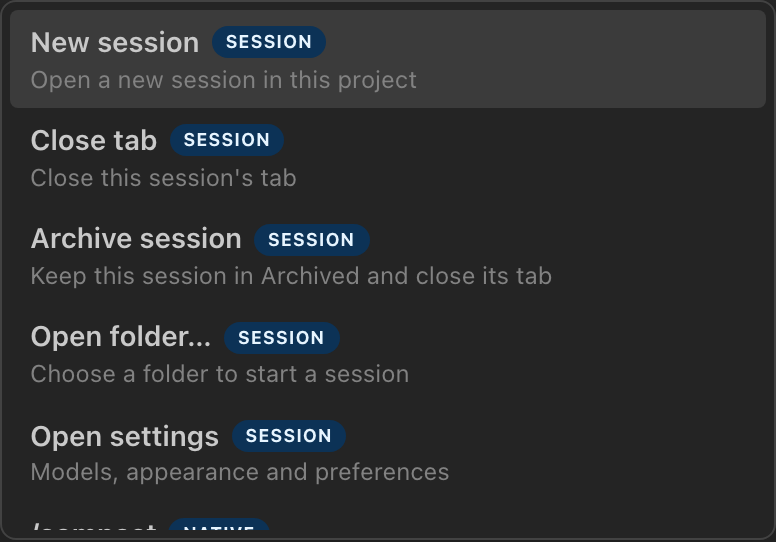
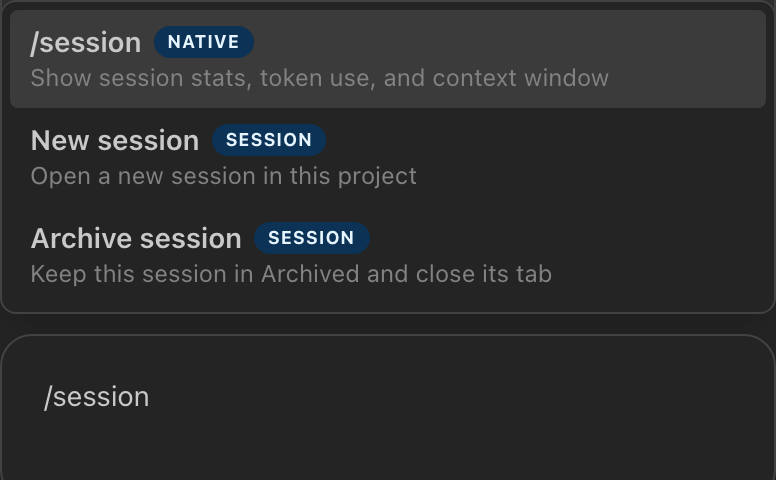
fix: show complete commands panel in README capture

diff --git a/scripts/capture-readme.ts b/scripts/capture-readme.ts
@@ -114,11 +114,25 @@ async function sendWithRetry(request: Request) {
 
   await page.setViewportSize({ width: 420, height: 780 });
   const composer = page.getByRole("textbox", { name: "Message Pi" });
-  await composer.fill("/");
+  // A real filtered menu fits without a half-visible row at the scroll boundary.
+  await composer.fill("/session");
   const commands = page.getByRole("listbox", { name: "Commands", exact: true });
   await expect(commands.getByRole("option", { name: /New session/ })).toBeVisible();
+  const options = commands.getByRole("option");
+  const panelBox = await commands.boundingBox();
+  const lastOptionBox = await options.last().boundingBox();
+  if (!panelBox || !lastOptionBox || lastOptionBox.y + lastOptionBox.height > panelBox.y + panelBox.height) {
+    throw new Error("Commands Panel must show every filtered option without clipping");
+  }
+  const composerBox = await composer.boundingBox();
+  if (!composerBox) throw new Error("Composer is not visible");
   await settle();
-  await commands.screenshot({ path: join(output, "commands.png"), animations: "disabled", caret: "hide" });
+  // Include the query/composer for context, but no unrelated transcript or empty screen.
+  await page.screenshot({
+    path: join(output, "commands.png"), animations: "disabled", caret: "hide",
+    clip: { x: panelBox.x, y: panelBox.y, width: panelBox.width,
+      height: composerBox.y + composerBox.height - panelBox.y },
+  });
   await composer.press("Escape");
   await composer.fill("");
   await page.setViewportSize({ width: 1120, height: 780 });
@@ -140,6 +154,7 @@ async function sendWithRetry(request: Request) {
     await document.fonts.ready;
     await Promise.all([...document.images].map(image => image.decode()));
   });
+  await expect(assembly.locator(".commands img")).toHaveCSS("object-fit", "contain");
   await assembly.locator(".showcase").screenshot({ path: join(output, "pi-chat-showcase.png"), animations: "disabled" });
   await writeFile(join(output, "preview.html"), html);
   await writeFile(join(output, "manifest.json"), JSON.stringify({

diff --git a/scripts/readme-showcase/assembly.ts b/scripts/readme-showcase/assembly.ts
@@ -20,7 +20,7 @@ h1{margin:0 0 20px;font-size:24px;font-weight:700;letter-spacing:-.5px}figure{ma
 .hero img{display:block;width:100%;height:auto}.summary{margin:10px 2px 0;font-size:12px;color:#747b88}
 .grid{display:grid;grid-template-columns:repeat(3,minmax(0,1fr));gap:18px;margin-top:26px}
 .grid .frame{height:320px}.grid img{display:block;width:100%;height:100%;object-fit:cover;object-position:top left}
-.grid .commands img{object-fit:cover;object-position:top left}.grid .light{border-color:#e1e3e9;background:#fafafa}.grid .light img{object-fit:cover;object-position:top center}
+.grid .commands img{object-fit:contain;object-position:center}.grid .light{border-color:#e1e3e9;background:#fafafa}.grid .light img{object-fit:cover;object-position:top center}
 figcaption{padding:11px 1px 0;font-size:13px;font-weight:600}
 </style></head><body><main class="showcase"><h1>Workspace</h1>
 <figure class="hero"><div class="frame">${image("workspace", "Pi Chat conversation with rich Markdown and tool output")}</div></figure>

diff --git a/test/infra-tests/readme-showcase.test.ts b/test/infra-tests/readme-showcase.test.ts
@@ -11,6 +11,11 @@ describe("README showcase assembly", () => {
     expect(html).not.toContain("A real conversation");
   });
 
+  it("fits the complete Commands Panel capture without cropping its edges", () => {
+    const html = assembleShowcaseHtml({ workspace: "AAA", projects: "BBB", commands: "CCC", light: "DDD" });
+    expect(html).toContain(".grid .commands img{object-fit:contain;object-position:center}");
+  });
+
   it("rejects malformed image data rather than interpolating markup", () => {
     expect(() => assembleShowcaseHtml({ workspace: '<script>', projects: "BBB", commands: "CCC", light: "DDD" })).toThrow(/base64/);
   });

diff --git a/docs/readme-showcase/CAPTURE.md b/docs/readme-showcase/CAPTURE.md
@@ -30,7 +30,7 @@ The default output directory is `docs/images/showcase/`:
 | --- | --- |
 | `workspace.png` | Populated dark-mode chat, three named session tabs, a real completed skill-read tool card, highlighted TypeScript, and a Markdown table |
 | `projects.png` | Actual Projects drawer with expanded, isolated demo projects and sessions |
-| `commands.png` | Actual command menu, captured at a narrow viewport for readable labels in the supporting card |
+| `commands.png` | Complete command menu filtered by `/session`, with its composer query, captured at a narrow viewport |
 | `light.png` | The same populated session in the application's light theme |
 | `pi-chat-showcase.png` | Assembled Product first layout: bold Workspace heading, large hero, three supporting cards with names only |
 | `preview.html` | Self-contained image composition for local inspection; ignored by Git |
@@ -51,7 +51,7 @@ Suggested integration after reviewing the generated image:
 - The script uses accessible UI interactions and waits for meaningful rendered state, not arbitrary sleeps. Page JavaScript errors fail the run.
 - Folder paths are hidden through the application's own Settings switch. Capture fixture folders have readable names (`pi-chat-demo` and `retry-review`) without changing production behavior.
 - PNG captures are framed/cropped only at assembly time. The script does not alter the real app DOM, CSS, transcript content, or controls to make them resemble the illustrative mockup.
-- The real project navigation is a drawer, not the mockup's invented permanent sidebar. The real command panel initially shows session actions. The tool card is shown in its native collapsed state so the prompt and answer fit in the hero.
+- The real project navigation is a drawer, not the mockup's invented permanent sidebar. The command capture uses `/session` to show a native command and session actions without a partially visible scroll row; assembly fits the entire capture without cropping. The tool card is shown in its native collapsed state so the prompt and answer fit in the hero.
 - Browser/font/platform differences can change rasterization; the script guarantees curated reproducible scenarios, not byte-identical PNGs across machines.
 
 ## Verification
